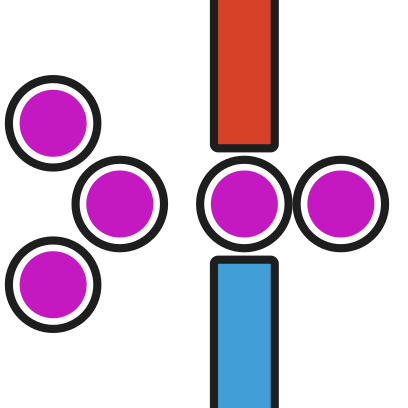
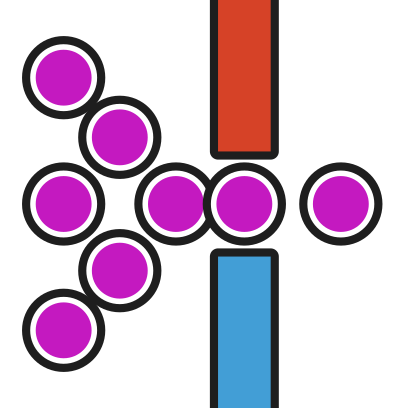
Cut the pack to nine, and give the bottleneck its queue
Crush, border, erase and undo go. What is left is nine, which is exactly
three rows of the regular grid: six drawn -- crowd, counterflow, goal,
bottleneck, detour, route -- and three of the 2016 icons whole.

The bottleneck had five pedestrians in something close to a line, which is
a picture of five pedestrians rather than of a bottleneck. It now has
eight, in a wedge: three abreast at the back, two, one at the mouth, one
in the gap and one out the far side. A crowd arrives on a front and leaves
in single file, and the shape between those two is the whole reason a
bottleneck is worth simulating.

Changed region(s): [[0.0, 0.0882, 0.9706, 0.9118]]

diff --git a/web/tools/stickers.ts b/web/tools/stickers.ts
@@ -3,9 +3,9 @@
  *
  * Run with:  npx vite-node tools/stickers.ts
  *
- * Thirteen stickers, of two kinds.
+ * Nine stickers, of two kinds.
  *
- * Eight are built out of the same primitives as `appIcons.ts` and `iosIcon.ts`,
+ * Six are built out of the same primitives as `appIcons.ts` and `iosIcon.ts`,
  * and for the same reason: a pedestrian here is a circle in a goal colour with a
  * white ring, which is what `PedestrianPanel.drawPedestrian` has drawn since
  * 2016, and a wall is a block in a colour `randomBrightColor` could have
@@ -13,8 +13,8 @@
  * anybody has to take on trust -- and if the palette rule changes, the stickers
  * change with it.
  *
- * The other five are 2016 toolbar icons, dropped in whole. See `original` below
- * for which, why those five, and what had to be done to them.
+ * The other three are 2016 toolbar icons, dropped in whole. See `original`
+ * below for which, why those three, and what had to be done to them.
  *
  * Like the icons and the share card, the output is committed and this is not
  * part of `npm run build`. Regenerating is a decision.
@@ -143,25 +143,6 @@ function crowd(reach: number): string {
 }
 
 /**
- * Seven packed until their rings cross: a hexagon and its middle.
- *
- * What a crowd does at a bottleneck. The centres sit 1.72 radii apart, which is
- * inside the personal space the model asks for -- a crush is the state where
- * everybody has given theirs up.
- */
-function crush(): string {
-  const r = REACH / 2.9;
-  const ring = r * 0.16;
-  const s = r * 1.72;
-  const dots = [pedestrian(CENTRE, CENTRE, r, MAGENTA, ring)];
-  for (let i = 0; i < 6; i++) {
-    const a = Math.PI / 6 + (i * Math.PI) / 3;
-    dots.push(pedestrian(CENTRE + s * Math.cos(a), CENTRE + s * Math.sin(a), r, MAGENTA, ring));
-  }
-  return dots.join('\n  ');
-}
-
-/**
  * Two files passing: the case the whole model exists to get right.
  *
  * Different colours because they are walking to different goals, offset by half
@@ -218,23 +199,31 @@ function goal(): string {
  * match is a map somebody arranged.
  */
 function bottleneck(): string {
-  const r = REACH * 0.21;
+  const r = REACH * 0.175;
   const ring = r * 0.18;
-  // Narrow, and running off the top and bottom of the tile: a wall is a thing
-  // you cannot go round, and a block with air above it is a thing you can.
   const x0 = CENTRE + REACH * 0.08;
   const x1 = CENTRE + REACH * 0.38;
   // The gap is a little wider than a pedestrian and no wider: what makes a queue
   // is that only one of them fits at a time.
   const gap = r + ring + KEY * 2;
+  // A wedge, not a line. A crowd arrives on a front and leaves in single file,
+  // and the shape between those two is the whole reason a bottleneck is a thing
+  // worth simulating.
+  const wedge: Point[] = [
+    [CENTRE - REACH * 0.8, CENTRE - REACH * 0.72],
+    [CENTRE - REACH * 0.8, CENTRE],
+    [CENTRE - REACH * 0.8, CENTRE + REACH * 0.72],
+    [CENTRE - REACH * 0.48, CENTRE - REACH * 0.38],
+    [CENTRE - REACH * 0.48, CENTRE + REACH * 0.38],
+    [CENTRE - REACH * 0.16, CENTRE],
+    // In the gap, and out the far side.
+    [CENTRE + REACH * 0.23, CENTRE],
+    [CENTRE + REACH * 0.78, CENTRE],
+  ];
   return [
     block(rect(x0, -KEY * 2, x1, CENTRE - gap), RUST),
     block(rect(x0, CENTRE + gap, x1, BOX + KEY * 2), SKY),
-    pedestrian(CENTRE - REACH * 0.86, CENTRE - REACH * 0.46, r, MAGENTA, ring),
-    pedestrian(CENTRE - REACH * 0.86, CENTRE + REACH * 0.46, r, MAGENTA, ring),
-    pedestrian(CENTRE - REACH * 0.48, CENTRE, r, MAGENTA, ring),
-    pedestrian(CENTRE + REACH * 0.23, CENTRE, r, MAGENTA, ring),
-    pedestrian(CENTRE + REACH * 0.78, CENTRE, r, MAGENTA, ring),
+    ...wedge.map(([x, y]) => pedestrian(x, y, r, MAGENTA, ring)),
   ].join('\n  ');
 }
 
@@ -274,34 +263,6 @@ function detour(): string {
     block(shifted, shadowOf(RUST)),
     block(ell, RUST),
     ...walk.map(([x, y]) => pedestrian(x, y, r, LIME, ring)),
-  ].join('\n  ');
-}
-
-/**
- * A border: the one tool that makes a shape with an inside.
- *
- * Four bars committed as a single wall, from BorderToolMouseListener -- so it is
- * drawn as four bars here too, in one colour, rather than as a stroked
- * rectangle. What is inside it is a crowd with nowhere to go.
- */
-function border(): string {
-  const a = REACH * 0.95;
-  const t = REACH * 0.26;
-  const bar = (x0: number, y0: number, x1: number, y1: number) =>
-    block(rect(x0, y0, x1, y1), SKY);
-  const r = REACH * 0.21;
-  const ring = r * 0.18;
-  const R = r * 1.0;
-  const dx = R * Math.cos(Math.PI / 6);
-  const dy = R * Math.sin(Math.PI / 6);
-  return [
-    bar(CENTRE - a, CENTRE - a, CENTRE + a, CENTRE - a + t),
-    bar(CENTRE - a, CENTRE + a - t, CENTRE + a, CENTRE + a),
-    bar(CENTRE - a, CENTRE - a + t, CENTRE - a + t, CENTRE + a - t),
-    bar(CENTRE + a - t, CENTRE - a + t, CENTRE + a, CENTRE + a - t),
-    pedestrian(CENTRE - dx, CENTRE + dy, r, MAGENTA, ring),
-    pedestrian(CENTRE + dx, CENTRE + dy, r, MAGENTA, ring),
-    pedestrian(CENTRE, CENTRE - R, r, MAGENTA, ring),
   ].join('\n  ');
 }
 
@@ -387,18 +348,14 @@ interface Sticker {
 
 const STICKERS: Sticker[] = [
   { name: 'crowd', label: 'A crowd of three pedestrians', art: crowd(REACH) },
-  { name: 'crush', label: 'A crush of pedestrians', art: crush() },
   { name: 'counterflow', label: 'Two crowds walking through each other', art: counterflow() },
   { name: 'goal', label: 'A crowd arriving at a goal', art: goal() },
   { name: 'bottleneck', label: 'A crowd funnelling through a gap between two walls', art: bottleneck() },
   { name: 'detour', label: 'A crowd walking around an L-shaped wall', art: detour() },
-  { name: 'border', label: 'A crowd inside a border', art: border() },
   { name: 'route', label: 'A pedestrian and its route to a goal', art: route() },
   { name: 'paint-square', label: 'Paint a square wall', art: original('addWallSquare.png') },
   { name: 'paint-freeform', label: 'Paint a freeform wall', art: original('addWall.png') },
   { name: 'select', label: 'Select', art: original('select.png') },
-  { name: 'erase', label: 'Erase', art: original('erase.svg') },
-  { name: 'undo', label: 'Undo', art: original('undo.png') },
 ];
 
 /**

diff --git a/web/README.md b/web/README.md
@@ -782,8 +782,8 @@ art stays well inside the inner 80%, so a circular crop cannot clip the rings.
 ### The same primitives again, as an iMessage sticker pack
 
 `tools/stickers.ts` writes `../ios/Stickers/Stickers.xcstickers`, the pack the
-iOS app embeds. Thirteen stickers, and not one of them is artwork: a pedestrian
-is a circle in a goal colour inside a white ring, a wall is a block over the
+iOS app embeds. Nine stickers, and not one of them is artwork: a pedestrian is
+a circle in a goal colour inside a white ring, a wall is a block over the
 `shadowOf` shadow palette.ts still carries from 2016, a route is a bent line in
 the orange of the `goal-paths` layer. Same argument as the icons — change the
 palette rule and the pack changes with it.
@@ -806,13 +806,12 @@ It is the one place the pack departs from what the app draws, and it is the same
 kind of departure as `STROKE_BOOST` on the share card below: a decision about
 being looked at somewhere else, at a size nobody chose.
 
-Eight of the thirteen are drawn — the crowd, a crush, counterflow, a crowd
-arriving at a goal, a bottleneck, an L-shaped detour, a border, a route. The
-other five are 2016 toolbar icons dropped in whole: `addWall`, `addWallSquare`,
-`select`, `erase` and `undo`, which are the ones that are *about* something
-rather than being a control.
+Six of the nine are drawn — the crowd, counterflow, a crowd arriving at a goal,
+a bottleneck, an L-shaped detour, a route. The other three are 2016 toolbar icons
+dropped in whole: `addWall`, `addWallSquare` and `select`, which are the ones
+that are *about* something rather than being a control.
 
-Those five needed the one thing the drawn marks did not. Most of the original
+Those three needed the one thing the drawn marks did not. Most of the original
 set is black line art made for Swing's light toolbar — it is why the strip in
 this app is light and not dark, and on a message bubble it would have the same
 problem with no strip to fix it. `clear.png` is the one icon in the set that

diff --git a/ios/README.md b/ios/README.md
@@ -30,7 +30,7 @@ Without a runtime the app can still be *compiled*; see the comment at the top of
 
 ## The sticker pack
 
-`Walky.app` embeds `WalkyStickers.appex`, an iMessage pack of thirteen stickers.
+`Walky.app` embeds `WalkyStickers.appex`, an iMessage pack of nine stickers.
 It has no code: its only build phase is Resources, the executable in the `.appex`
 is a stub Xcode links for it, and everything it ships is one compiled asset
 catalogue.
